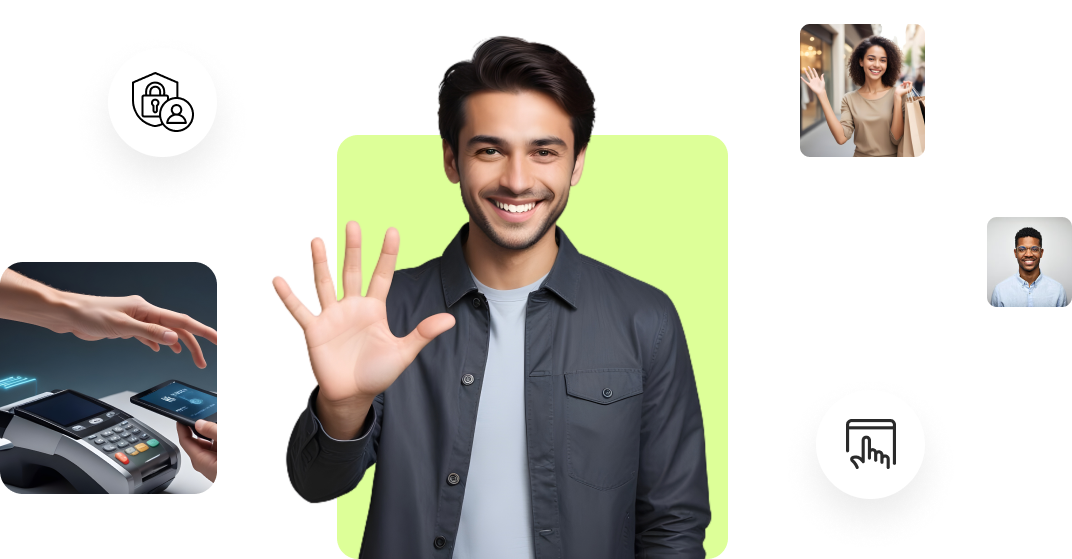
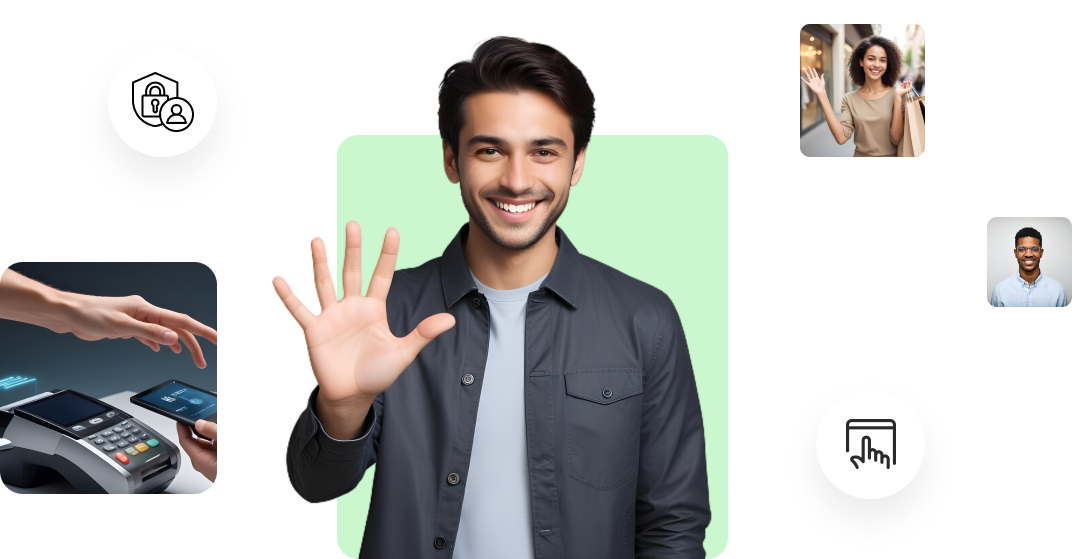
Color changed

Changed region(s): [[0.5233, 0.2433, 0.6772, 1.0], [0.3078, 0.2433, 0.4618, 0.5474], [0.3078, 0.8211, 0.3694, 1.0]]

diff --git a/app/components/GetInTouch/GetInTouch.js b/app/components/GetInTouch/GetInTouch.js
@@ -1,35 +1,41 @@
-import React from 'react'
-import Link from "next/link";
+import React from 'react';
+import Link from 'next/link';
 
 export default function GetInTouch() {
   return (
     <>
-    <section id='contact-us' className='xl:pt-[90px] bg-[#FBFFF4] lg:mt-[220px] md:mt-[120px] xl:py-0 md:py-[80px] py-[60px] md:mb-[140px]'>
+      <section id="contact-us" className="xl:pt-[90px] bg-[#CAF7CE] lg:mt-[220px] md:mt-[120px] xl:py-0 md:py-[80px] py-[60px] md:mb-[140px]">
         <div className="container">
-            <div className="grid lg:grid-cols-[5fr_7fr] xl:gap-x-[150px] lg:gap-[50px] gap-[30px] xl:items-start items-center">
-                <div className="flex flex-col mb-[50px] lg:text-left text-center">
-                    <h2 className='section-title max-w-[550px] mb-[5px] font-normal'>Get in touch</h2>
-                    <p className='xl:text-[24px] lg:text-[18px] text-[14px] text-[#5E5E5E] lg:mb-[30px] mb-[15px]'>Ready to experience the future of biometric authentication with Cetirc? Contact us today to learn more about our products and services.</p>
-                    <div className="flex items-center xl:gap-8 gap-4 lg:justify-start justify-center">
-                        <Link href="/" className="primary-btn">Contact us</Link>
-                        <Link href="/getstarted" className="bordered-btn">Get Started</Link>
-                    </div>
-                </div>
-                <div className='md:py-[55px] py-[30px] md:px-[50px] px-[20px] shadow-[0_30px_60px_rgba(0,0,0,0.08)] md:rounded-[30px] rounded-[15px] bg-white xl:-translate-y-[220px]'>
-                    <h2 className='section-title max-w-[550px] mb-[5px] font-normal lg:text-left text-center'>Cetirc in the News</h2>
-                    <p className='xl:text-[24px] lg:text-[18px] text-[14px] text-[#5E5E5E] lg:mb-[30px] mb-[15px] lg:text-left text-center'>Get Cetirc newsletters, annual reports, blogs, and articles.</p>
-                    <form action="#">
-                        <div className="form-group md:mb-[30px] mb-[15px]">
-                            <input className='border border-[#ABABAB] bg-transparent rounded-[11px] xl:leading-[70px] leading-[50px] px-[30px] w-full text-[16px] font-normal' type="email" name="email" id="email" placeholder='Enter email'/>
-                        </div>
-                        <div className="form-group text-right">
-                            <button className='primary-btn' type="submit">Submit</button>
-                        </div>
-                    </form>
-                </div>
+          <div className="grid lg:grid-cols-[5fr_7fr] xl:gap-x-[150px] lg:gap-[50px] gap-[30px] xl:items-start items-center">
+            <div className="flex flex-col mb-[50px] lg:text-left text-center">
+              <h2 className="section-title max-w-[550px] mb-[5px] font-normal">Get in touch</h2>
+              <p className="xl:text-[24px] lg:text-[18px] text-[14px] text-[#5E5E5E] lg:mb-[30px] mb-[15px]">Ready to experience the future of biometric authentication with Cetirc? Contact us today to learn more about our products and services.</p>
+              <div className="flex items-center xl:gap-8 gap-4 lg:justify-start justify-center">
+                <Link href="/" className="primary-btn whitespace-nowrap">
+                  Contact us
+                </Link>
+                <Link href="/getstarted" className="bordered-btn whitespace-nowrap">
+                  Get Started
+                </Link>
+              </div>
             </div>
+            <div className="md:py-[55px] py-[30px] md:px-[50px] px-[20px] shadow-[0_30px_60px_rgba(0,0,0,0.08)] md:rounded-[30px] rounded-[15px] bg-white xl:-translate-y-[220px]">
+              <h2 className="section-title max-w-[550px] mb-[5px] font-normal lg:text-left text-center">Cetirc in the News</h2>
+              <p className="xl:text-[24px] lg:text-[18px] text-[14px] text-[#5E5E5E] lg:mb-[30px] mb-[15px] lg:text-left text-center">Get Cetirc newsletters, annual reports, blogs, and articles.</p>
+              <form action="#">
+                <div className="form-group md:mb-[30px] mb-[15px]">
+                  <input className="border border-[#ABABAB] bg-transparent rounded-[11px] xl:leading-[70px] leading-[50px] px-[30px] w-full text-[16px] font-normal" type="email" name="email" id="email" placeholder="Enter email" />
+                </div>
+                <div className="form-group text-right">
+                  <button className="primary-btn" type="submit">
+                    Submit
+                  </button>
+                </div>
+              </form>
+            </div>
+          </div>
         </div>
-    </section>
+      </section>
     </>
-  )
+  );
 }

diff --git a/app/components/HowItWorks/HowItWorks.js b/app/components/HowItWorks/HowItWorks.js
@@ -61,7 +61,7 @@ export default function HowItWorks() {
                 </motion.div>
                 <motion.div className="grid lg:grid-cols-3 md:grid-cols-2 grid-cols-1 gap-4" variants={stagger} initial="hidden" animate={controls}>
                     {/* single box  */}
-                    <motion.div className="bg-[#F6FCEA] md:py-[45px] py-[25px] md:px-[30px] px-[20px] xl:rounded-[43px] rounded-[20px] text-center" variants={fadeInUp}>
+                    <motion.div className="bg-[#CAF7CE] md:py-[45px] py-[25px] md:px-[30px] px-[20px] xl:rounded-[43px] rounded-[20px] text-center" variants={fadeInUp}>
                         <Image className="xl:mb-[10px] mb-[5px] mx-auto md:max-w-[105px] max-w-[60px]" src={WorksIcon1} alt="Works Icon1"/>
                         <h3 className='xl:text-[30px] sm:text-[24px] text-[20px] font-normal mb-[15px] leading-[1.3]'>
                           Download the Alice 1 App for Free:
@@ -71,7 +71,7 @@ export default function HowItWorks() {
                         </p>
                     </motion.div>
                     {/* single box  */}
-                    <motion.div className="bg-[#F6FCEA] md:py-[45px] py-[25px] md:px-[30px] px-[20px] xl:rounded-[43px] rounded-[20px] text-center" variants={fadeInUp}>
+                    <motion.div className="bg-[#CAF7CE] md:py-[45px] py-[25px] md:px-[30px] px-[20px] xl:rounded-[43px] rounded-[20px] text-center" variants={fadeInUp}>
                         <Image className="xl:mb-[10px] mb-[5px] mx-auto md:max-w-[105px] max-w-[60px]" src={WorksIcon2} alt="Works Icon2"/>
                         <h3 className='xl:text-[30px] sm:text-[24px] text-[20px] font-normal mb-[15px]'>
                           Registration and Biometrics
@@ -81,7 +81,7 @@ export default function HowItWorks() {
                         </p>
                     </motion.div>
                     {/* single box  */}
-                    <motion.div className="bg-[#F6FCEA] md:py-[45px] py-[25px] md:px-[30px] px-[20px] xl:rounded-[43px] rounded-[20px] text-center" variants={fadeInUp}>
+                    <motion.div className="bg-[#CAF7CE] md:py-[45px] py-[25px] md:px-[30px] px-[20px] xl:rounded-[43px] rounded-[20px] text-center" variants={fadeInUp}>
                         <Image className="xl:mb-[10px] mb-[5px] mx-auto md:max-w-[105px] max-w-[60px]" src={WorksIcon3} alt="Works Icon3"/>
                         <h3 className='xl:text-[30px] sm:text-[24px] text-[20px] font-normal mb-[15px]'>
                           Activate Your Profile With the Alice 1

diff --git a/app/components/AliceWork1/AliceWork1.js b/app/components/AliceWork1/AliceWork1.js
@@ -20,7 +20,7 @@ export default function AliceWork1() {
                     <div className='relative'>
                         {/* single work item  */}
                         <div className='flex gap-x-[18px] relative lg:pb-[50px] pb-[30px] before:w-[2px] before:absolute before:h-[calc(100%-50px)] before:content-[unset] before:lg:content-[""] before:border-l-2 before:border-dashed before:top-[40px] before:left-[14px]'>
-                            <div className='lg:h-[30px] h-[20px] lg:w-[30px] w-[20px] lg:min-w-[30px] min-w-[20px] bg-[#E0FEA4] rounded-full'></div>
+                            <div className='lg:h-[30px] h-[20px] lg:w-[30px] w-[20px] lg:min-w-[30px] min-w-[20px] bg-[#C9F5CD] rounded-full'></div>
                             <div>
                                 <h4 className='text-[24px] md:mb-[15px] mb-[10px]'>Registration:</h4>
                                 <p className='text-[#646464] lg:text-[20px] text-[14px]'>You register your palm vein patterns using the Alice 1 app or through Cetirc-supported devices at designated registration points. Our app or device’s proprietary computer vision algorithm captures and securely stores your unique palm vein patterns during registration. This system encrypts your palm image and creates your unique palm signature, readable by any of our partnering Cetirc or Alice 1 devices worldwide.</p>

diff --git a/app/components/AliceWork2/AliceWork2.js b/app/components/AliceWork2/AliceWork2.js
@@ -5,7 +5,7 @@ import AliceWorkIcon1 from "@/app/assets/images/alice-work-icon1.svg";
 export default function AliceWork1() {
   return (
     <>
-        <section className='md:pt-[140px] md:bg-[#F6FCEA] relative z-10 before:absolute before:bottom-0 before:left-0 before:h-[180px] before:w-full before:content-[""] before:bg-white before:-z-10'>
+        <section className='md:pt-[140px] md:bg-[#CAF7CE] relative z-10 before:absolute before:bottom-0 before:left-0 before:h-[180px] before:w-full before:content-[""] before:bg-white before:-z-10'>
             <div className="container">
                 <div className="flex items-center flex-col md:mb-[50px] mb-[30px] text-center">
                     <h2 className='section-title md:mb-[20px] mb-[10px]'><span className='font-normal'>How Does</span> <br /> Alice 2 Work</h2>

diff --git a/app/components/legal/SideNav.jsx b/app/components/legal/SideNav.jsx
@@ -16,7 +16,7 @@ export default function SideNav() {
           key={index}
           className={`px-3 py-2.5 md:p-2.5 w-full border rounded-[10px_22px] shadow-sm whitespace-nowrap md:whitespace-normal text-sm 
             ${pathname === link.url
-              ? "text-[#222] font-bold border-[#E9FFBF] bg-[#E9FFBF]"
+              ? "text-[#222] font-bold border-[#C5F1C9] bg-[#C5F1C9]"
               : "text-[#222] border-[#f2f2f2]"
             }`}
         >

diff --git a/app/components/ContactUs/ContactUs.js b/app/components/ContactUs/ContactUs.js
@@ -87,7 +87,7 @@ export default function ContactUs() {
 
   return (
     <>
-      <section ref={ref} className="md:bg-[#F6FCEA] md:py-[100px] mt-[80px]">
+      <section ref={ref} className="bg-[#CAF7CE] py-[50px] md:py-[100px] mt-[80px]">
         <div className="container">
           <motion.div
             className="grid md:grid-cols-2 xl:gap-[180px] lg:gap-[100px] gap-[50px]"

diff --git a/app/globals.css b/app/globals.css
@@ -37,7 +37,7 @@ html,body{
 }
 
 .subtitle {
-  @apply bg-[#EFFCD2] inline-flex items-center py-[8px] px-[24px] gap-3 rounded-full mb-[10px];
+  @apply bg-[#C5F1C9] inline-flex items-center py-[8px] px-[24px] gap-3 rounded-full mb-[10px];
 }
 
 .subtitle span {
